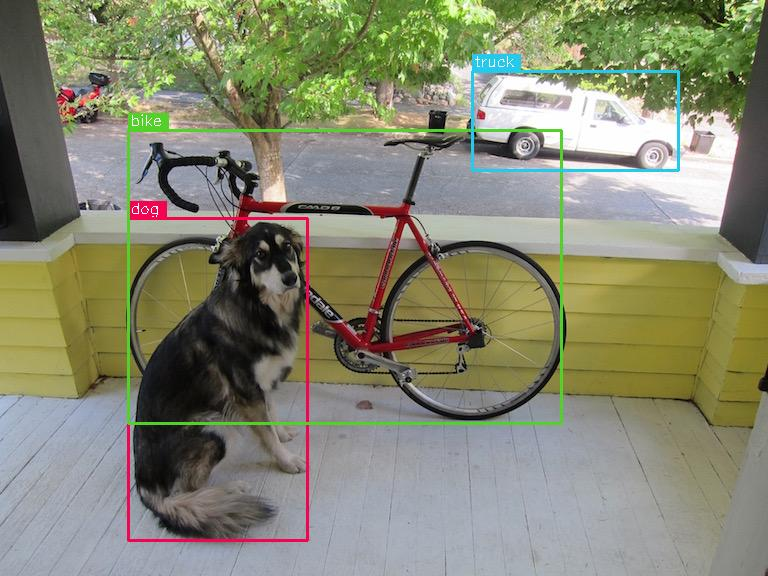
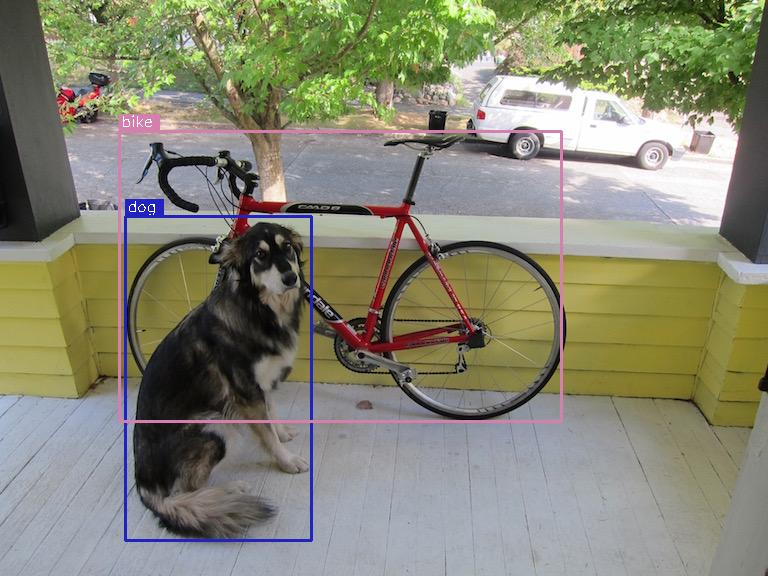
up

Changed region(s): [[0.125, 0.0938, 0.9062, 0.9688]]

diff --git a/basic_LMM/lang.py b/basic_LMM/lang.py
@@ -1,0 +1,124 @@
+import os
+import sqlite3
+from langchain_google_genai import ChatGoogleGenerativeAI
+from langchain_core.prompts import ChatPromptTemplate
+from setup import API_KEY
+# Step 1: Configure SQLite Database
+def setup_database():
+    conn = sqlite3.connect("langchain_gemini.db")
+    cursor = conn.cursor()
+    # Create a table to store chat history
+    cursor.execute("""
+    CREATE TABLE IF NOT EXISTS chat_history (
+        id INTEGER PRIMARY KEY AUTOINCREMENT,
+        user_message TEXT,
+        ai_response TEXT
+    )
+    """)
+    conn.commit()
+    return conn, cursor
+
+# Step 2: Configure LangChain with Gemini
+def setup_gemini():
+    # Set up Google Gemini API Key
+    os.environ["GOOGLE_API_KEY"] = API_KEY()  # Replace with your actual API key
+
+    # Configure Gemini model
+    llm = ChatGoogleGenerativeAI(
+        model="gemini-1.5-pro",
+        temperature=0.7,
+        max_tokens=200
+    )
+    return llm
+
+# Step 3: Create a LangChain Prompt Template
+def setup_prompt():
+    # Define the prompt template
+    prompt = ChatPromptTemplate.from_messages([
+        ("system", "You are a helpful assistant that can answer user questions and also search through chat history."),
+        ("human", "{input}"),
+    ])
+    return prompt
+
+# Step 4: Store Interaction in SQLite
+def store_interaction(cursor, user_message, ai_response):
+    cursor.execute("INSERT INTO chat_history (user_message, ai_response) VALUES (?, ?)",
+                   (user_message, ai_response))
+    cursor.connection.commit()
+
+# Step 5: Fetch Chat History from SQLite
+def fetch_interaction(cursor, search_query=None):
+    if search_query:
+        # Search for specific content in the chat history
+        cursor.execute("""
+        SELECT * FROM chat_history
+        WHERE user_message LIKE ? OR ai_response LIKE ?
+        """, (f"%{search_query}%", f"%{search_query}%"))
+    else:
+        # Fetch all chat history
+        cursor.execute("SELECT * FROM chat_history")
+    return cursor.fetchall()
+
+# Step 6: Chat with AI using LangChain Prompt
+def chat_with_ai(llm, prompt, cursor, user_message):
+    # Search history if the user wants
+    if user_message.lower().startswith("search:"):
+        search_query = user_message[len("search:"):].strip()
+        results = fetch_interaction(cursor, search_query)
+        if not results:
+            return "No results found for your query."
+        # Format the results as part of the response
+        history_results = "\n".join([f"User: {row[1]}, AI: {row[2]}" for row in results])
+        return f"Search Results:\n{history_results}"
+
+    # Use LangChain prompt template for structured input
+    chain = prompt | llm
+    ai_response = chain.invoke({"input": user_message}).content
+    # Store interaction in SQLite
+    store_interaction(cursor, user_message, ai_response)
+    return ai_response
+
+# Step 7: Chat Interface
+def chat(llm, prompt, cursor):
+    print("Start chatting with Gemini! Type 'exit' to end or 'search:<query>' to search history.")
+    while True:
+        user_message = input("You: ")
+        if user_message.lower() == "exit":
+            print("Goodbye!")
+            break
+        ai_response = chat_with_ai(llm, prompt, cursor, user_message)
+        print(f"AI: {ai_response}")
+
+# Step 8: View Chat History
+def view_chat_history(cursor):
+    interactions = fetch_interaction(cursor)
+    for id, user_message, ai_response in interactions:
+        print(f"ID: {id}")
+        print(f"User: {user_message}")
+        print(f"AI: {ai_response}")
+        print("-" * 30)
+
+# Main Execution
+if __name__ == "__main__":
+    # Set up database and model
+    conn, cursor = setup_database()
+    llm = setup_gemini()
+    prompt = setup_prompt()
+
+    # Main menu
+    while True:
+        print("\n1. Chat with Gemini")
+        print("2. View Chat History")
+        print("3. Exit")
+        choice = input("Enter your choice: ")
+        
+        if choice == "1":
+            chat(llm, prompt, cursor)
+        elif choice == "2":
+            view_chat_history(cursor)
+        elif choice == "3":
+            print("Exiting...")
+            conn.close()
+            break
+        else:
+            print("Invalid choice. Please select 1, 2, or 3.")

diff --git a/basic_LMM/detection.py b/basic_LMM/detection.py
@@ -16,14 +16,22 @@ model = genai.GenerativeModel(model_name='gemini-1.5-pro')
 input_image = "basic_LMM/dog_bike_car.jpg"
 img = Image.open(input_image)  # Open the image using PIL
 
+#bad Prompt
+# response = model.generate_content([
+#     img,  # Pass the image as input
+#     ("Return bounding boxes for all objects in the image in the following format as")
+# ])
+
 # Generate content with an object detection prompt
 response = model.generate_content([
     img,  # Pass the image as input
     ("Return bounding boxes for all objects in the image in the following format as"
      " a list. \n [ymin, xmin, ymax, xmax, object_name]. If there are more than one object, return separate lists for each object")
 ])
-result = response.text  # Extract the text output containing bounding box data
 
+
+result = response.text  # Extract the text output containing bounding box data
+print(result)
 def parse_bounding_box(response):
     """
     Parse the bounding box response from the AI model.
